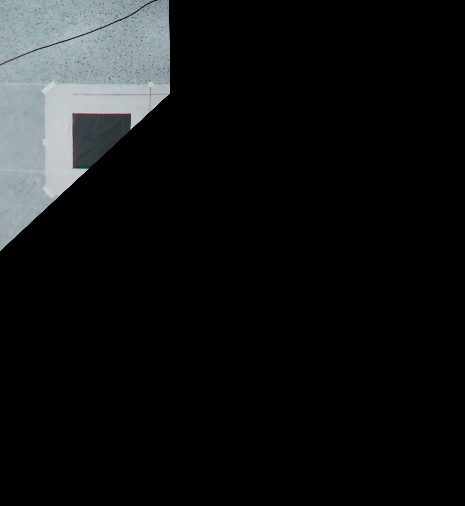
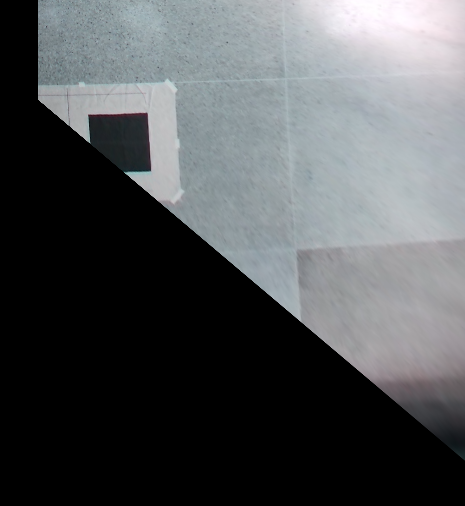
Surround-View-App Ver 1.4.0

diff --git a/Development_Program/Step4_merge.py b/Development_Program/Step4_merge.py
@@ -27,6 +27,8 @@ from PIL import Image
 from param_settings import xl, xr, yt, yb
 from image_processing import LuminanceBalancer, ImageStitcher, ImageAdjuster
 
+Dataset_path = '../Dataset/'
+
 def load_image(path):
     """
     Load an image from a given file path.
@@ -49,10 +51,10 @@ def main():
     # Load images from different camera angles
     try:
         front = load_image('out_merged_Images/front_warped_image.png')
-        left = load_image('out_merged_Images/Left_warped_image.png')
+        left = load_image('out_merged_Images/left_warped_image.png')
         rear = load_image('out_merged_Images/Rear_warped_image.png')
-        right = load_image('out_merged_Images/Right_warped_image.png')
-        car = cv2.imread('Dataset/golf_car.png', cv2.IMREAD_UNCHANGED)  # Load car image with alpha channel
+        right = load_image('out_merged_Images/right_warped_image.png')
+        car = cv2.imread(f'{Dataset_path}golf_car.png', cv2.IMREAD_UNCHANGED)  # Load car image with alpha channel
 
         images = [front, left, rear, right]
 

diff --git a/Development_Program/Step3_Projective_Transformation.py b/Development_Program/Step3_Projective_Transformation.py
@@ -30,6 +30,9 @@ import cv2
 import numpy as np
 import os
 
+# Defind dataset path 
+Dataset_path = '../Dataset/Img_distortion_Testing/'
+
 output_folder = 'out_merged_Images'  # Directory to save the warped images
 
 def load_calibration_parameters(yaml_filename):
@@ -124,9 +127,13 @@ if __name__ == "__main__":
         print(f"Loaded Distortion Coefficients for {test_folder}:\n", dist_coeffs)
 
         # Load the test image and apply undistortion
-        img_src = cv2.imread(f'Dataset/Img_distortion_Testing/{test_folder}.jpg')
+        img_src = cv2.imread(f'{Dataset_path}{test_folder}.jpg')
         if test_folder == 'rear':
             img_src = cv2.rotate(img_src, cv2.ROTATE_180)
+
+        if test_folder == 'right':
+            img_src = cv2.rotate(img_src, cv2.ROTATE_180)
+
 
         img_src_undistorted = cv2.undistort(img_src, camera_matrix, dist_coeffs)
 

diff --git a/Development_Program/Step1_cal.py b/Development_Program/Step1_cal.py
@@ -33,11 +33,15 @@ import numpy as np
 import cv2
 import glob
 
+
 def get_intrinsic_matrix(fx, fy, cx, cy):
     """Returns the intrinsic camera matrix."""
     return np.array([[fx, 0, cx],
                      [0, fy, cy],
                      [0,  0,  1]])
+
+# Defind dataset path 
+Dataset_path = '../Dataset/Img_distortion_Testing/'
 
 # Define chessboard size and square size
 chessboard_size = (6, 4)  # Number of inner corners (width, height)
@@ -108,7 +112,7 @@ for test_folder in test_folders:
     print(f"\nProcessing test folder: {test_folder}")
 
     # Load test image for undistortion
-    img_test = cv2.imread(f'Dataset/Img_distortion_Testing/{test_folder}.jpg')
+    img_test = cv2.imread(f'{Dataset_path}{test_folder}.jpg')
 
     if img_test is not None:
         # Undistort the test image

diff --git a/Development_Program/image_processing.py b/Development_Program/image_processing.py
@@ -175,7 +175,10 @@ class ImageStitcher:
                 # ปรับค่าด้วยกำลังสอง
                 distToB **= 2
                 distToA **= 2
-                G[y, x] = distToB / (distToA + distToB)
+                if distToA + distToB != 0:
+                    G[y, x] = distToB / (distToA + distToB)
+                else:
+                    G[y, x] = 0
         return G, overlapMask
 
     @staticmethod
